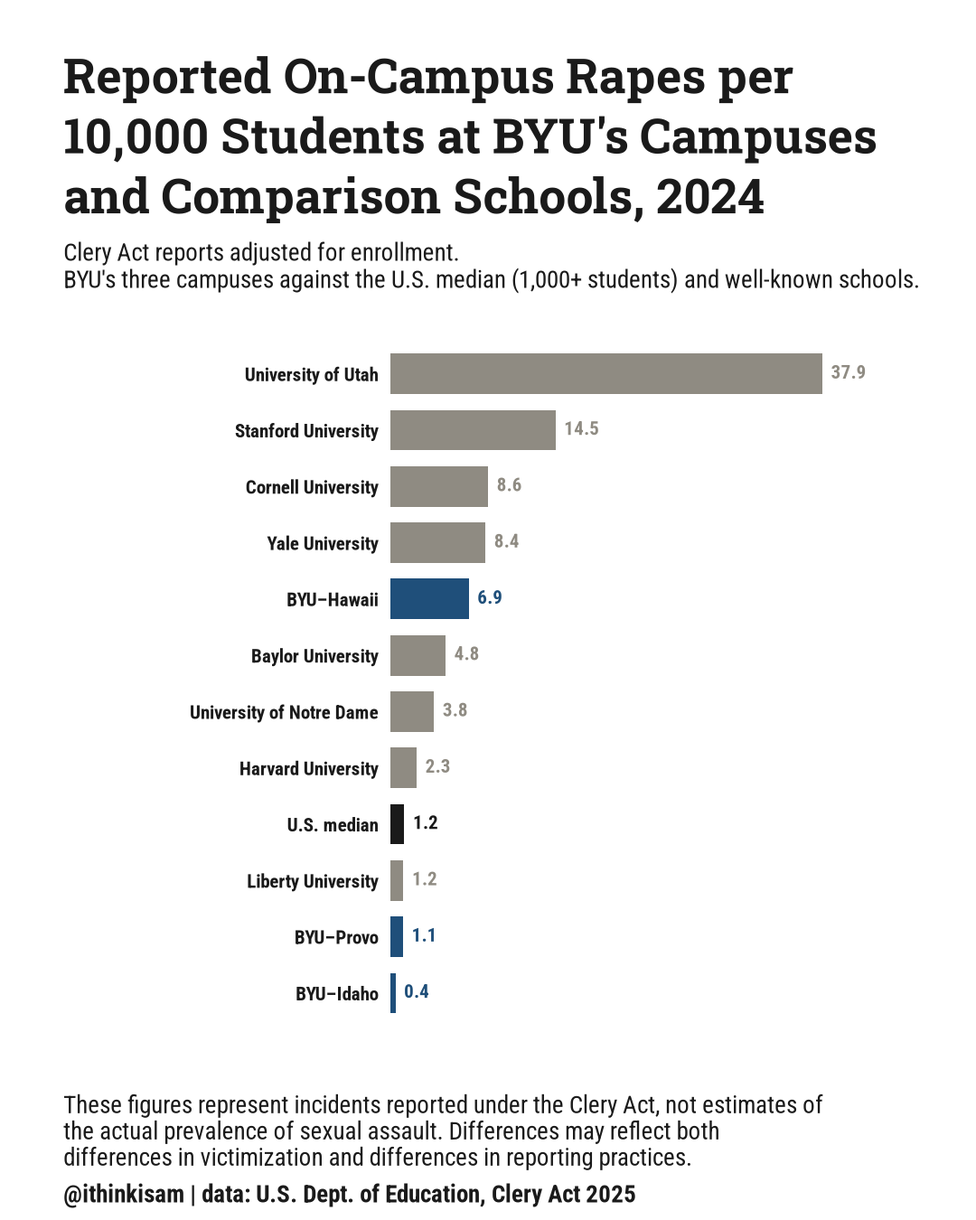
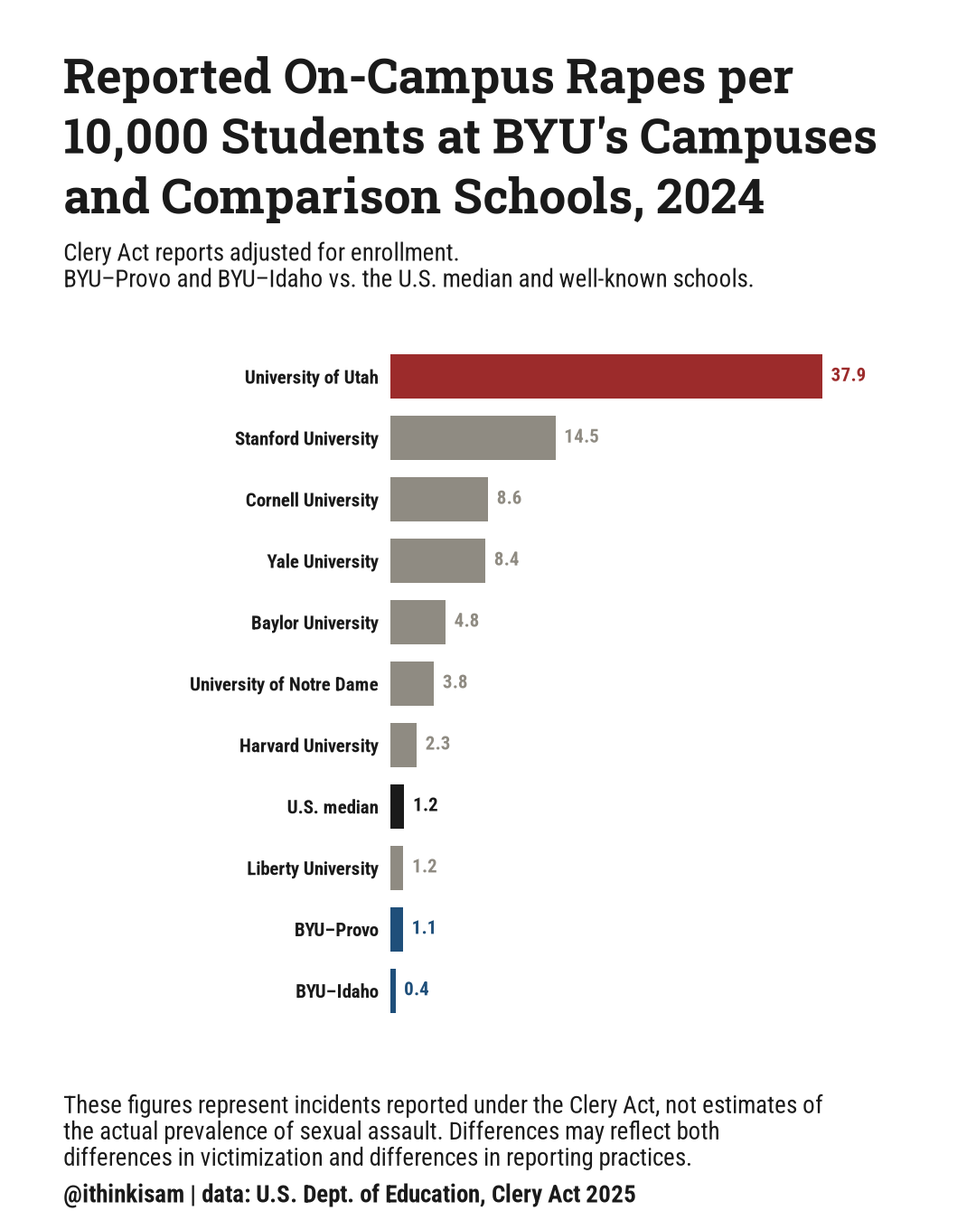
Clery: drop five national charts, Utah red, add Utah rate scatter and no-outlier scatter, remove BYU-Hawaii from per-10k comparison charts (#40)

diff --git a/src/lib/data-explorer.ts b/src/lib/data-explorer.ts
@@ -2382,46 +2382,22 @@ function cleryGraphics(): Graphic[] {
   });
   return [
     mk(
-      "Reported on-campus rapes by university, 2024",
-      "Raw number of on-campus rapes reported under the Clery Act in 2024: the top 30 institutions plus BYU.",
-      "reported-rapes-by-university-2024.png",
-      `Horizontal bar chart of the 30 four-year institutions reporting the most on-campus rapes in 2024, led by the University of Utah (140), University of Colorado Boulder (96) and Indiana University Indianapolis (87). BYU, highlighted, reported ${byu.rapes_2024}, ranking ${byu.rank_raw_2024} of ${byu.of_raw}.`,
-    ),
-    mk(
-      "Reported on-campus rapes per 10,000 students, 2024",
-      "Clery Act reports adjusted for enrollment, institutions with 1,000+ students: the top 30 plus BYU.",
-      "reported-rapes-per-10k-students-2024.png",
-      `Horizontal bar chart of on-campus rapes reported per 10,000 students in 2024, top 30 of ${cleryStats.n_ge_1000} institutions with 1,000+ students, with the national median bar. BYU, highlighted, is at ${byu.rate_2024.toFixed(1)}, rank ${byu.rank_rate_ge_1000}, the ${Math.round(byu.percentile_ge_1000)}th percentile.`,
-    ),
-    mk(
       "Campus size and reported rapes",
       "Each four-year institution with 1,000+ students: enrollment against 2024 reports, with the expected count at the national rate.",
       "campus-size-vs-reported-rapes-2024.png",
       `Scatter plot of enrollment against reported on-campus rapes in 2024 with a line for the pooled national rate of ${cleryStats.pooled_rate_per_10k_ge_1000.toFixed(1)} per 10,000. The University of Utah, Colorado Boulder and Indiana University Indianapolis sit far above it. BYU (${byu.rapes_2024} reports) sits below it.`,
     ),
     mk(
-      "Campus size and reported rape rates",
-      "Each four-year institution with 1,000+ students: enrollment against 2024 reports per 10,000 students, with the national rate and its expected chance range.",
-      "campus-size-vs-reported-rape-rate-2024.png",
-      `Scatter plot of enrollment (log scale) against 2024 reported on-campus rapes per 10,000 students, with a flat line at the national rate of ${cleryStats.pooled_rate_per_10k_ge_1000.toFixed(1)} and a band that narrows as campuses grow. Small campuses scatter widely above and below it. The University of Utah, Indiana University Indianapolis and Dartmouth sit far above the band. BYU (${byu.rate_2024.toFixed(1)}) is below the line.`,
+      "Campus size and reported rapes, without the three largest outliers",
+      "Same chart as campus size and reported rapes, with the University of Utah, CU Boulder and Indiana University Indianapolis removed from the plot (arrows give their counts) to improve the scale.",
+      "campus-size-vs-reported-rapes-2024-without-outliers.png",
+      "Scatter plot of enrollment against 2024 reported on-campus rapes with the University of Utah (140, red), University of Colorado Boulder (96) and Indiana University Indianapolis (87) marked by arrows at the top edge instead of plotted. The remaining institutions scatter around the national-rate line. BYU (4) is below it.",
     ),
     mk(
       "Campus size and average reported rape rates, 2022-2024",
       "Each four-year institution with 1,000+ students: enrollment (linear scale) against the three-year average rate per 10,000 students, with all three BYU campuses labeled.",
       "campus-size-vs-reported-rape-rate-3yr-2022-24.png",
-      "Scatter plot of enrollment against the 2022-2024 average annual reported on-campus rapes per 10,000 students, with a flat line at the national rate of 3.8 and a band that narrows as campuses grow. BYU-Provo (1.0), BYU-Idaho (1.2) and BYU-Hawaii (5.7) are highlighted in blue. The University of Utah (30.4) and Indiana University Indianapolis (35.4) sit far above the band.",
-    ),
-    mk(
-      "Where BYU falls among U.S. universities",
-      "Histogram of 2024 reported on-campus rape rates for institutions with 5,000+ students, with BYU and the median marked.",
-      "byu-vs-national-distribution-2024.png",
-      `Histogram of reported on-campus rapes per 10,000 students, ${cleryStats.n_ge_5000} institutions with 5,000+ students. BYU's rate is ${byu.rate_2024.toFixed(2)}; the median is ${cleryStats.distribution_ge_5000_2024.median.toFixed(2)} and the mean ${cleryStats.distribution_ge_5000_2024.mean.toFixed(2)}. BYU is at the ${Math.round(byu.percentile_ge_5000)}th percentile.`,
-    ),
-    mk(
-      "Average reported on-campus rape rate, 2022-2024",
-      "Three-year average per 10,000 students, institutions with 5,000+ students: the top 30, the national median, and BYU.",
-      "reported-rapes-per-10k-3yr-average-2022-24.png",
-      `Horizontal bar chart of the three-year average reported on-campus rape rate per 10,000 students, led by Indiana University Indianapolis (35.4) and the University of Utah (30.4). The national median is ${cleryStats.distribution_3yr_ge_5000.median.toFixed(1)}. BYU is ${byu.rate_3yr.toFixed(1)}, ranking ${byu.rank_3yr} of ${byu.of_3yr}.`,
+      "Scatter plot of enrollment against the 2022-2024 average annual reported on-campus rapes per 10,000 students, with a flat line at the national rate of 3.8 and a band that narrows as campuses grow. BYU-Provo (1.0), BYU-Idaho (1.2) and BYU-Hawaii (5.7) are highlighted in blue. The University of Utah (30.4, red) and Indiana University Indianapolis (35.4) sit far above the band.",
     ),
     ...cleryUtahGraphics(),
     ...cleryByuCampusGraphics(),
@@ -2459,6 +2435,12 @@ function cleryUtahGraphics(): Graphic[] {
       "utah-campus-size-vs-reported-rapes-2024.png",
       `Scatter plot of enrollment against 2024 reported on-campus rapes at ${u.n} Utah institutions with a line for the U.S. national rate. The University of Utah (140) is far above it and off the chart; BYU (4) is below it.`,
     ),
+    mk(
+      "Utah: campus size and reported rape rates",
+      "Utah's four-year institutions with 1,000+ students: enrollment against 2024 reports per 10,000 students, with the U.S. national rate and its expected chance range.",
+      "utah-campus-size-vs-reported-rape-rate-2024.png",
+      `Scatter plot of enrollment against 2024 reported on-campus rapes per 10,000 students at ${u.n} Utah institutions, with a flat line at the U.S. national rate. The University of Utah (37.9, red) is above the top edge; Snow College (9.0) is above the chance band; BYU (1.1, blue) is below the line.`,
+    ),
   ];
 }
 
@@ -2480,13 +2462,13 @@ function cleryByuCampusGraphics(): Graphic[] {
       "BYU campuses: reported on-campus rapes per 10,000 students, 2024",
       "2024 rates for the three BYU campuses, the U.S. median, and well-known schools.",
       "byu-campuses-reported-rapes-per-10k-2024.png",
-      `Horizontal bar chart of 2024 reported on-campus rapes per 10,000 students. BYU–Provo ${p.rate24.toFixed(1)}, BYU–Idaho ${i.rate24.toFixed(1)} and BYU–Hawaii ${h.rate24.toFixed(1)}, highlighted, against a U.S. median of ${cleryByu.median_rate_2024.toFixed(1)} and comparison schools. BYU–Hawaii has about 2,900 students, so two reports make its rate volatile.`,
+      `Horizontal bar chart of 2024 reported on-campus rapes per 10,000 students. BYU–Provo ${p.rate24.toFixed(1)} and BYU–Idaho ${i.rate24.toFixed(1)}, highlighted, against a U.S. median of ${cleryByu.median_rate_2024.toFixed(1)} and comparison schools including the University of Utah (red).`,
     ),
     mk(
       "BYU campuses: average reported on-campus rape rate, 2022-2024",
       "Three-year average per 10,000 students for the three BYU campuses, the U.S. median, and well-known schools.",
       "byu-campuses-reported-rapes-per-10k-3yr-average-2022-24.png",
-      `Horizontal bar chart of the 2022-2024 average reported rate. BYU–Provo ${p.rate3.toFixed(1)}, BYU–Idaho ${i.rate3.toFixed(1)} and BYU–Hawaii ${h.rate3.toFixed(1)}, highlighted, against a U.S. median of ${cleryByu.median_rate_3yr.toFixed(1)} and comparison schools.`,
+      `Horizontal bar chart of the 2022-2024 average reported rate. BYU–Provo ${p.rate3.toFixed(1)} and BYU–Idaho ${i.rate3.toFixed(1)}, highlighted, against a U.S. median of ${cleryByu.median_rate_3yr.toFixed(1)} and comparison schools.`,
     ),
   ];
 }

diff --git a/scripts/clery-campus-safety-2025/render.py b/scripts/clery-campus-safety-2025/render.py
@@ -31,6 +31,8 @@ from chart_style import BORDER, draw_caption_bottom  # noqa: E402
 DATA = HERE.parent.parent / "docs" / "datasets" / "clery-campus-safety-2025"
 HANDLE = "@ithinkisam | data: U.S. Dept. of Education, Clery Act 2025"
 BYU_ID = "230038"
+UTAH_ID = "230764"
+UTAH_RED = "#9C2B2B"  # crimson from chart_style; the University of Utah is red on every chart
 BYU_LABEL = "Brigham Young University"
 DISCLAIMER = ("These figures represent incidents reported under the Clery Act, not estimates of the actual "
               "prevalence of sexual assault. Differences may reflect both differences in victimization and "
@@ -72,13 +74,14 @@ def uniq_labels(rows):
     return out
 
 
-def bar_chart(*, rows, byu, value_key, title, subtitle, out, fonts, decimals, extra_rows=(), rank_key, accent_ids=(BYU_ID,), label_key=None):
+def bar_chart(*, rows, byu, value_key, title, subtitle, out, fonts, decimals, extra_rows=(), rank_key, accent_ids=(BYU_ID,), label_key=None, red_ids=(UTAH_ID,)):
     """rows: top-30 records; byu appended if not already present."""
     ids = [r["unitid"] for r in rows]
     labels = [r[label_key] for r in rows] if label_key else uniq_labels(rows)
     values = {l: r[value_key] for l, r in zip(labels, rows)}
     order = list(labels)
-    colors = {l: (ACCENT if r["unitid"] in accent_ids else CONTEXT_GRAY) for l, r in zip(labels, rows)}
+    colors = {l: (ACCENT if r["unitid"] in accent_ids else UTAH_RED if r["unitid"] in red_ids else CONTEXT_GRAY)
+              for l, r in zip(labels, rows)}
     if not any(i in ids for i in accent_ids) and BYU_ID not in ids:
         lab = f"{BYU_LABEL} (#{byu[rank_key]:,})"
         order.append(lab)
@@ -105,12 +108,14 @@ def stat_box(ax, lines, x=0.97, y=0.97):
             fontproperties=FONTS["regular"], fontsize=15, color=INK, bbox=dict(boxstyle="square,pad=0.6", fc=PAPER, ec=BORDER, lw=1))
 
 
-def scatter_chart(out, fonts):
+def scatter_chart(out, fonts, hide=()):
     d = json.loads((DATA / "scatter-2024.json").read_text(encoding="utf-8"))
     pts = d["points"]
     XCAP = 85000
     n_off = sum(p["enrollment"] > XCAP for p in pts)
     pts_all, pts = pts, [p for p in pts if p["enrollment"] <= XCAP]
+    hidden = [p for p in pts if p["unitid"] in hide]
+    pts = [p for p in pts if p["unitid"] not in hide]
     x = np.array([p["enrollment"] for p in pts])
     y = np.array([p["rape24"] for p in pts])
     z = np.array([p["resid_z"] for p in pts])
@@ -118,7 +123,9 @@ def scatter_chart(out, fonts):
 
     fig = plt.figure(figsize=(FIG_W_IN, FIG_H_IN), dpi=DPI)
     fig.patch.set_facecolor(PAPER)
-    sub_bottom = _draw_title(fig, fonts, "Campus Size and Reported Rapes at U.S. Universities",
+    title = ("Campus Size and Reported Rapes at U.S. Universities" if not hide
+             else "Campus Size and Reported Rapes, Without the Three Largest Outliers")
+    sub_bottom = _draw_title(fig, fonts, title,
                              "2024 Clery Act reports. One dot per four-year institution with\n"
                              f"at least {d['min_enrollment']:,} students ({len(pts):,} institutions).")
     cap_top = draw_caption_bottom(
@@ -126,7 +133,9 @@ def scatter_chart(out, fonts):
         [f"Line = expected reports if every campus reported at the pooled national rate "
          f"({rate:.1f} per 10,000 students); shaded band = 95% Poisson range around it. "
          "Labeled dots are the largest departures above the line, plus BYU and Cornell for comparison. "
-         f"{n_off} very large, mostly online, institutions (enrollment above {XCAP:,}) are off the right edge; each reported 13 or fewer.", DISCLAIMER],
+         f"{n_off} very large, mostly online, institutions (enrollment above {XCAP:,}) are off the right edge; each reported 13 or fewer."
+         + (" The three highest-count institutions are removed to improve the scale; arrows give their values." if hide else ""),
+         DISCLAIMER],
         handle=HANDLE, fontsize=14, color=INK, wrap_width=80, line_step=0.0185)
     ax = fig.add_axes([0.14, cap_top + 0.075, 0.82, sub_bottom - cap_top - 0.105])
     ax.set_facecolor(PAPER)
@@ -148,14 +157,19 @@ def scatter_chart(out, fonts):
     cornell = next(p for p in pts if p["unitid"] == "190415")
     ax.scatter([byu["enrollment"]], [byu["rape24"]], s=170, color=ACCENT, ec=PAPER, lw=1.5, zorder=5)
     ax.scatter([cornell["enrollment"]], [cornell["rape24"]], s=90, color=INK, ec=PAPER, lw=1.2, zorder=4)
+    for u in (p for p in pts if p["unitid"] == UTAH_ID):
+        ax.scatter([u["enrollment"]], [u["rape24"]], s=110, color=UTAH_RED, ec=PAPER, lw=1.2, zorder=4)
 
     top = sorted(pts, key=lambda p: -abs(p["resid_z"]))
     over = [p for p in top if p["resid_z"] > 0][:6]
+    if hide:
+        over = [p for p in over if p["unitid"] in ("173957", "182670", "115755", "110714")]
     under = []
     # (label, dx, dy in points, ha) hand-placed to avoid collisions
     place = {
         "230764": (9, -3, "left"), "126614": (9, -3, "left"), "151111": (9, -3, "left"),
-        "173957": (9, 66, "left"), "182670": (9, 8, "left"), "115755": (9, 6, "left"),
+        "173957": (9, 66 if not hide else 86, "left"), "182670": (12, 26 if hide else 8, "left"),
+        "115755": (12, -26 if hide else 6, "left"),
         "110714": (9, 6, "left"), "190415": (12, -16, "left"), BYU_ID: (12, -6, "left"),
     }
     done = set()
@@ -171,9 +185,19 @@ def scatter_chart(out, fonts):
                     textcoords="offset points", ha=ha, fontsize=12.5,
                     arrowprops=dict(arrowstyle="-", color=MUTED, lw=0.8, shrinkA=2, shrinkB=4),
                     fontproperties=fonts["bold" if p["unitid"] in (BYU_ID, "190415") else "regular"],
-                    color=ACCENT if p["unitid"] == BYU_ID else INK, zorder=6)
+                    color=ACCENT if p["unitid"] == BYU_ID else UTAH_RED if p["unitid"] == UTAH_ID else INK, zorder=6)
+    ylim = y.max() * (1.30 if hidden else 1.08)
+    for k, p in enumerate(sorted(hidden, key=lambda q: q["enrollment"])):
+        lab = {"126614": "CU Boulder", "151111": "IU Indianapolis"}.get(p["unitid"]) or short(p["name"])
+        left = p["unitid"] != "126614"
+        ytxt = ylim * (0.84 if p["unitid"] == UTAH_ID else 0.93)
+        ax.annotate("", xy=(p["enrollment"], ylim * 0.995), xytext=(p["enrollment"], ytxt - ylim * 0.012),
+                    arrowprops=dict(arrowstyle="-|>", color=UTAH_RED if p["unitid"] == UTAH_ID else INK, lw=1.8))
+        ax.text(p["enrollment"] + (-900 if left else 900), ytxt, f"{lab}: {p['rape24']}", ha="right" if left else "left",
+                va="center", fontproperties=fonts["bold"], fontsize=13,
+                color=UTAH_RED if p["unitid"] == UTAH_ID else INK)
     ax.set_xlim(0, XCAP)
-    ax.set_ylim(0, y.max() * 1.08)
+    ax.set_ylim(0, ylim)
     ax.xaxis.set_major_formatter(lambda v, _: f"{int(v/1000)}k" if v else "0")
     for lab in ax.get_xticklabels() + ax.get_yticklabels():
         lab.set_fontproperties(fonts["regular"])
@@ -308,7 +332,8 @@ def rate_scatter_3yr_chart(out, fonts):
         if p["unitid"] in byu_ids:
             ax.scatter([p["enrollment"]], [p["rate3"]], s=170, color=ACCENT, ec=PAPER, lw=1.5, zorder=5)
         elif p["unitid"] in place:
-            ax.scatter([p["enrollment"]], [p["rate3"]], s=60, color=INK, ec=PAPER, lw=1.2, zorder=4)
+            ax.scatter([p["enrollment"]], [p["rate3"]], s=90 if p["unitid"] == UTAH_ID else 60,
+                       color=UTAH_RED if p["unitid"] == UTAH_ID else INK, ec=PAPER, lw=1.2, zorder=4)
         else:
             continue
         isb = p["unitid"] in byu_ids
@@ -318,7 +343,7 @@ def rate_scatter_3yr_chart(out, fonts):
                     textcoords="offset points", ha=ha, fontsize=13 if isb else 12.5,
                     arrowprops=dict(arrowstyle="-", color=MUTED, lw=0.8, shrinkA=2, shrinkB=4),
                     fontproperties=fonts["bold" if isb else "regular"],
-                    color=ACCENT if isb else INK, zorder=6)
+                    color=ACCENT if isb else UTAH_RED if p["unitid"] == UTAH_ID else INK, zorder=6)
     ax.set_xlim(0, XCAP)
     ax.set_ylim(-3, YCAP)
     ax.xaxis.set_major_formatter(lambda v, _: f"{int(v/1000)}k" if v else "0")
@@ -430,8 +455,9 @@ def utah_scatter(out, fonts):
         isb = p["unitid"] == BYU_ID
         off = p["rape24"] > YTOP
         y = YTOP - 0.9 if off else p["rape24"]
-        ax.scatter([p["enrollment"]], [y], s=170 if isb else 60, marker="^" if off else "o",
-                   color=ACCENT if isb else CONTEXT_GRAY, ec=PAPER, lw=1.2, zorder=5 if isb else 4)
+        isu = p["unitid"] == UTAH_ID
+        ax.scatter([p["enrollment"]], [y], s=170 if isb else 90 if isu else 60, marker="^" if off else "o",
+                   color=ACCENT if isb else UTAH_RED if isu else CONTEXT_GRAY, ec=PAPER, lw=1.2, zorder=5 if isb else 4)
         if p["name"] in grouped:
             continue
         lab = "BYU" if isb else short(p["name"])
@@ -439,7 +465,7 @@ def utah_scatter(out, fonts):
         dx, dy, ha = (-12, -4, "right") if off else place.get(p["name"], (10, 6, "left"))
         ax.annotate(txt, (p["enrollment"], y), xytext=(dx, dy), textcoords="offset points",
                     ha=ha, fontsize=12.5, fontproperties=fonts["bold" if isb else "regular"],
-                    color=ACCENT if isb else INK, zorder=6,
+                    color=ACCENT if isb else UTAH_RED if isu else INK, zorder=6,
                     arrowprops=dict(arrowstyle="-", color=MUTED, lw=0.8, shrinkA=2, shrinkB=4))
     gp = next(p for p in pts if p["name"] == grouped[1])
     ax.annotate("Westminster, Joyce, Rocky Mountain (0 each)", (gp["enrollment"], 0), xytext=(14, 70),
@@ -459,6 +485,81 @@ def utah_scatter(out, fonts):
     plt.close(fig)
 
 
+def utah_rate_scatter(out, fonts):
+    u = json.loads((DATA / "utah-2024.json").read_text(encoding="utf-8"))
+    s = json.loads((DATA / "stats.json").read_text(encoding="utf-8"))
+    rate = s["pooled_rate_per_10k_ge_1000"]
+    pts = u["rows"]
+    YTOP, xmax = 16, 50000
+    fig = plt.figure(figsize=(FIG_W_IN, FIG_H_IN), dpi=DPI)
+    fig.patch.set_facecolor(PAPER)
+    sub_bottom = _draw_title(fig, fonts, "Campus Size and Reported Rape Rates at Utah Universities",
+                             "2024 Clery Act reports per 10,000 students. All four-year\n"
+                             f"Utah institutions with at least {u['min_enrollment']:,} students ({len(pts)} institutions).")
+    cap_top = draw_caption_bottom(
+        fig, fonts,
+        [f"Line = U.S. national rate ({rate:.1f} per 10,000 students); shaded band = 95% Poisson range around it, "
+         "which narrows as campuses get larger. The University of Utah's rate is above the top edge.", DISCLAIMER],
+        handle=HANDLE, fontsize=14, color=INK, wrap_width=80, line_step=0.0185)
+    ax = fig.add_axes([0.14, cap_top + 0.075, 0.82, sub_bottom - cap_top - 0.105])
+    ax.set_facecolor(PAPER)
+    for sp in ("top", "right"):
+        ax.spines[sp].set_visible(False)
+    for sp in ("left", "bottom"):
+        ax.spines[sp].set_color(MUTED)
+    ax.grid(color=BORDER, lw=0.8)
+    ax.set_axisbelow(True)
+    xs = np.linspace(1000, xmax, 300)
+    exp = rate / 1e4 * xs
+    ax.fill_between(xs, np.maximum(exp - 1.96 * np.sqrt(exp), 0) / xs * 1e4,
+                    (exp + 1.96 * np.sqrt(exp) + 1) / xs * 1e4, color=CONTEXT_GRAY, alpha=0.18, lw=0)
+    ax.axhline(rate, color=INK, lw=2)
+    place = {"Snow College": (14, 8, "left"), "Utah Tech University": (14, 10, "left")}
+    pos = {"Utah State University": (29000, 7.0, "center"), "Weber State University": (33000, 9.3, "center"),
+           "Brigham Young University": (41500, 5.6, "center"), "Utah Valley University": (44500, 8.0, "center"),
+           "Southern Utah University": (15400, 2.6, "center"), "Ensign College": (8500, -1.1, "left")}
+    grouped = ("Westminster University", "Joyce University of Nursing and Health Sciences",
+               "Rocky Mountain University of Health Professions")
+    leader = dict(arrowstyle="-", color=MUTED, lw=0.8, shrinkA=2, shrinkB=4)
+    for p in pts:
+        isb, isu = p["unitid"] == BYU_ID, p["unitid"] == UTAH_ID
+        off = p["rate24"] > YTOP
+        y = YTOP - 0.7 if off else p["rate24"]
+        ax.scatter([p["enrollment"]], [y], s=170 if isb else 90 if isu else 60, marker="^" if off else "o",
+                   color=ACCENT if isb else UTAH_RED if isu else CONTEXT_GRAY, ec=PAPER, lw=1.2,
+                   zorder=5 if (isb or isu) else 4)
+        if p["name"] in grouped:
+            continue
+        lab = "BYU" if isb else short(p["name"])
+        txt = f"{lab} ({p['rate24']:.1f}, off chart)" if off else f"{lab} ({p['rate24']:.1f})"
+        kw = dict(ha="left", fontsize=12.5, fontproperties=fonts["bold" if (isb or isu) else "regular"],
+                  color=ACCENT if isb else UTAH_RED if isu else INK, zorder=6, arrowprops=leader)
+        if p["name"] in pos:
+            x0, y0, ha = pos[p["name"]]
+            kw["ha"] = ha
+            ax.annotate(txt, (p["enrollment"], y), xytext=(x0, y0), textcoords="data", **kw)
+        else:
+            dx, dy, ha = (-12, -4, "right") if off else place.get(p["name"], (10, 6, "left"))
+            kw["ha"] = ha
+            ax.annotate(txt, (p["enrollment"], y), xytext=(dx, dy), textcoords="offset points", **kw)
+    gp = next(p for p in pts if p["name"] == grouped[1])
+    ax.annotate("Westminster, Joyce, Rocky" + chr(10) + "Mountain (0 each)", (gp["enrollment"], 0), xytext=(1200, 6.3),
+                textcoords="data", ha="left", va="center", fontsize=12.5, fontproperties=fonts["regular"], color=INK,
+                arrowprops=leader)
+    ax.set_xlim(0, xmax)
+    ax.set_ylim(-2, YTOP + 1)
+    ax.xaxis.set_major_formatter(lambda v, _: f"{int(v/1000)}k" if v else "0")
+    for lab in ax.get_xticklabels() + ax.get_yticklabels():
+        lab.set_fontproperties(fonts["regular"])
+        lab.set_fontsize(13)
+    ax.set_xlabel("Total enrollment", fontproperties=fonts["bold"], fontsize=14, color=INK)
+    ax.set_ylabel("Reported on-campus rapes per 10,000 students, 2024", fontproperties=fonts["bold"], fontsize=14, color=INK)
+    ax.text(1500, rate + 0.4, "National rate", ha="left", va="bottom",
+            fontproperties=fonts["bold"], fontsize=13, color=INK)
+    fig.savefig(out, dpi=DPI, facecolor=PAPER)
+    plt.close(fig)
+
+
 def main():
     ap = argparse.ArgumentParser()
     ap.add_argument("--out-dir", type=Path, required=True)
@@ -468,33 +569,10 @@ def main():
     FONTS.update(fonts)
     s = json.loads((DATA / "stats.json").read_text(encoding="utf-8"))
 
-    raw = json.loads((DATA / "raw-rapes-2024-top30.json").read_text(encoding="utf-8"))
-    bar_chart(rows=raw["rows"], byu=raw["byu"], value_key="rape24", rank_key="rank_raw", decimals=0,
-              title="Reported On-Campus Rapes by University, 2024",
-              subtitle="Raw number of incidents reported under the Clery Act.\n"
-                       f"Top 30 of {raw['n']:,} four-year institutions, plus BYU.",
-              out=args.out_dir / "reported-rapes-by-university-2024.png", fonts=fonts)
-
-    rt = json.loads((DATA / "rate-2024-top30.json").read_text(encoding="utf-8"))
-    bar_chart(rows=rt["rows"], byu=rt["byu"], value_key="rate24", rank_key="rank_rate", decimals=1,
-              extra_rows=[("National median", rt["median"], INK)],
-              title="Reported On-Campus Rapes per 10,000 Students, 2024",
-              subtitle="Clery Act reports adjusted for university enrollment.\n"
-                       f"Top 30 of {rt['n']:,} four-year institutions with 1,000+ students, plus BYU and the median.",
-              out=args.out_dir / "reported-rapes-per-10k-students-2024.png", fonts=fonts)
-
     scatter_chart(args.out_dir / "campus-size-vs-reported-rapes-2024.png", fonts)
-    rate_scatter_chart(args.out_dir / "campus-size-vs-reported-rape-rate-2024.png", fonts)
+    scatter_chart(args.out_dir / "campus-size-vs-reported-rapes-2024-without-outliers.png", fonts,
+                  hide=(UTAH_ID, "126614", "151111"))
     rate_scatter_3yr_chart(args.out_dir / "campus-size-vs-reported-rape-rate-3yr-2022-24.png", fonts)
-    hist_chart(args.out_dir / "byu-vs-national-distribution-2024.png", fonts)
-
-    m = json.loads((DATA / "rate-2022-24-top30.json").read_text(encoding="utf-8"))
-    bar_chart(rows=m["rows"], byu=m["byu"], value_key="rate3", rank_key="rank3", decimals=1,
-              extra_rows=[(f"National median", m["median"], INK)],
-              title="Average Reported On-Campus Rape Rate, 2022–2024",
-              subtitle="Three-year Clery Act average per 10,000 students.\n"
-                       f"Top 30 of {m['n']:,} institutions with 5,000+ students, plus BYU and the median.",
-              out=args.out_dir / "reported-rapes-per-10k-3yr-average-2022-24.png", fonts=fonts)
 
     # ---- Utah only ----
     ut = json.loads((DATA / "utah-2024.json").read_text(encoding="utf-8"))
@@ -519,6 +597,7 @@ def main():
               subtitle=f"Three-year Clery Act average per 10,000 students.\n{sub_ut}, plus the median.",
               out=args.out_dir / "utah-reported-rapes-per-10k-3yr-average-2022-24.png", fonts=fonts)
     utah_scatter(args.out_dir / "utah-campus-size-vs-reported-rapes-2024.png", fonts)
+    utah_rate_scatter(args.out_dir / "utah-campus-size-vs-reported-rape-rate-2024.png", fonts)
 
     # ---- BYU's three campuses ----
     bc = json.loads((DATA / "byu-campuses.json").read_text(encoding="utf-8"))
@@ -529,15 +608,17 @@ def main():
               title="Reported On-Campus Rapes at BYU's Campuses and Comparison Schools, 2024",
               subtitle="Raw number of incidents reported under the Clery Act.\n" + "BYU's three campuses and well-known schools.",
               out=args.out_dir / "byu-campuses-reported-rapes-2024.png", **kw)
-    bar_chart(rows=sorted(crow, key=lambda r: -r["rate24"]), value_key="rate24", decimals=1,
+    no_hi = [r for r in crow if r["unitid"] != "230047"]  # per-10k charts omit BYU-Hawaii
+    sub2 = "BYU"+chr(0x2013)+"Provo and BYU"+chr(0x2013)+"Idaho vs. the U.S. median and well-known schools."
+    bar_chart(rows=sorted(no_hi, key=lambda r: -r["rate24"]), value_key="rate24", decimals=1,
               extra_rows=[("U.S. median", bc["median_rate_2024"], INK)],
               title="Reported On-Campus Rapes per 10,000 Students at BYU's Campuses and Comparison Schools, 2024",
-              subtitle="Clery Act reports adjusted for enrollment.\n" + sub.replace("U.S. median", "U.S. median (1,000+ students)"),
+              subtitle="Clery Act reports adjusted for enrollment.\n" + sub2,
               out=args.out_dir / "byu-campuses-reported-rapes-per-10k-2024.png", **kw)
-    bar_chart(rows=sorted(crow, key=lambda r: -r["rate3"]), value_key="rate3", decimals=1,
+    bar_chart(rows=sorted(no_hi, key=lambda r: -r["rate3"]), value_key="rate3", decimals=1,
               extra_rows=[("U.S. median", bc["median_rate_3yr"], INK)],
               title="Average Reported On-Campus Rape Rate at BYU's Campuses and Comparison Schools, 2022–2024",
-              subtitle="Three-year Clery Act average per 10,000 students.\n" + sub.replace("U.S. median", "U.S. median (1,000+ students)"),
+              subtitle="Three-year Clery Act average per 10,000 students.\n" + sub2,
               out=args.out_dir / "byu-campuses-reported-rapes-per-10k-3yr-average-2022-24.png", **kw)
 
 
